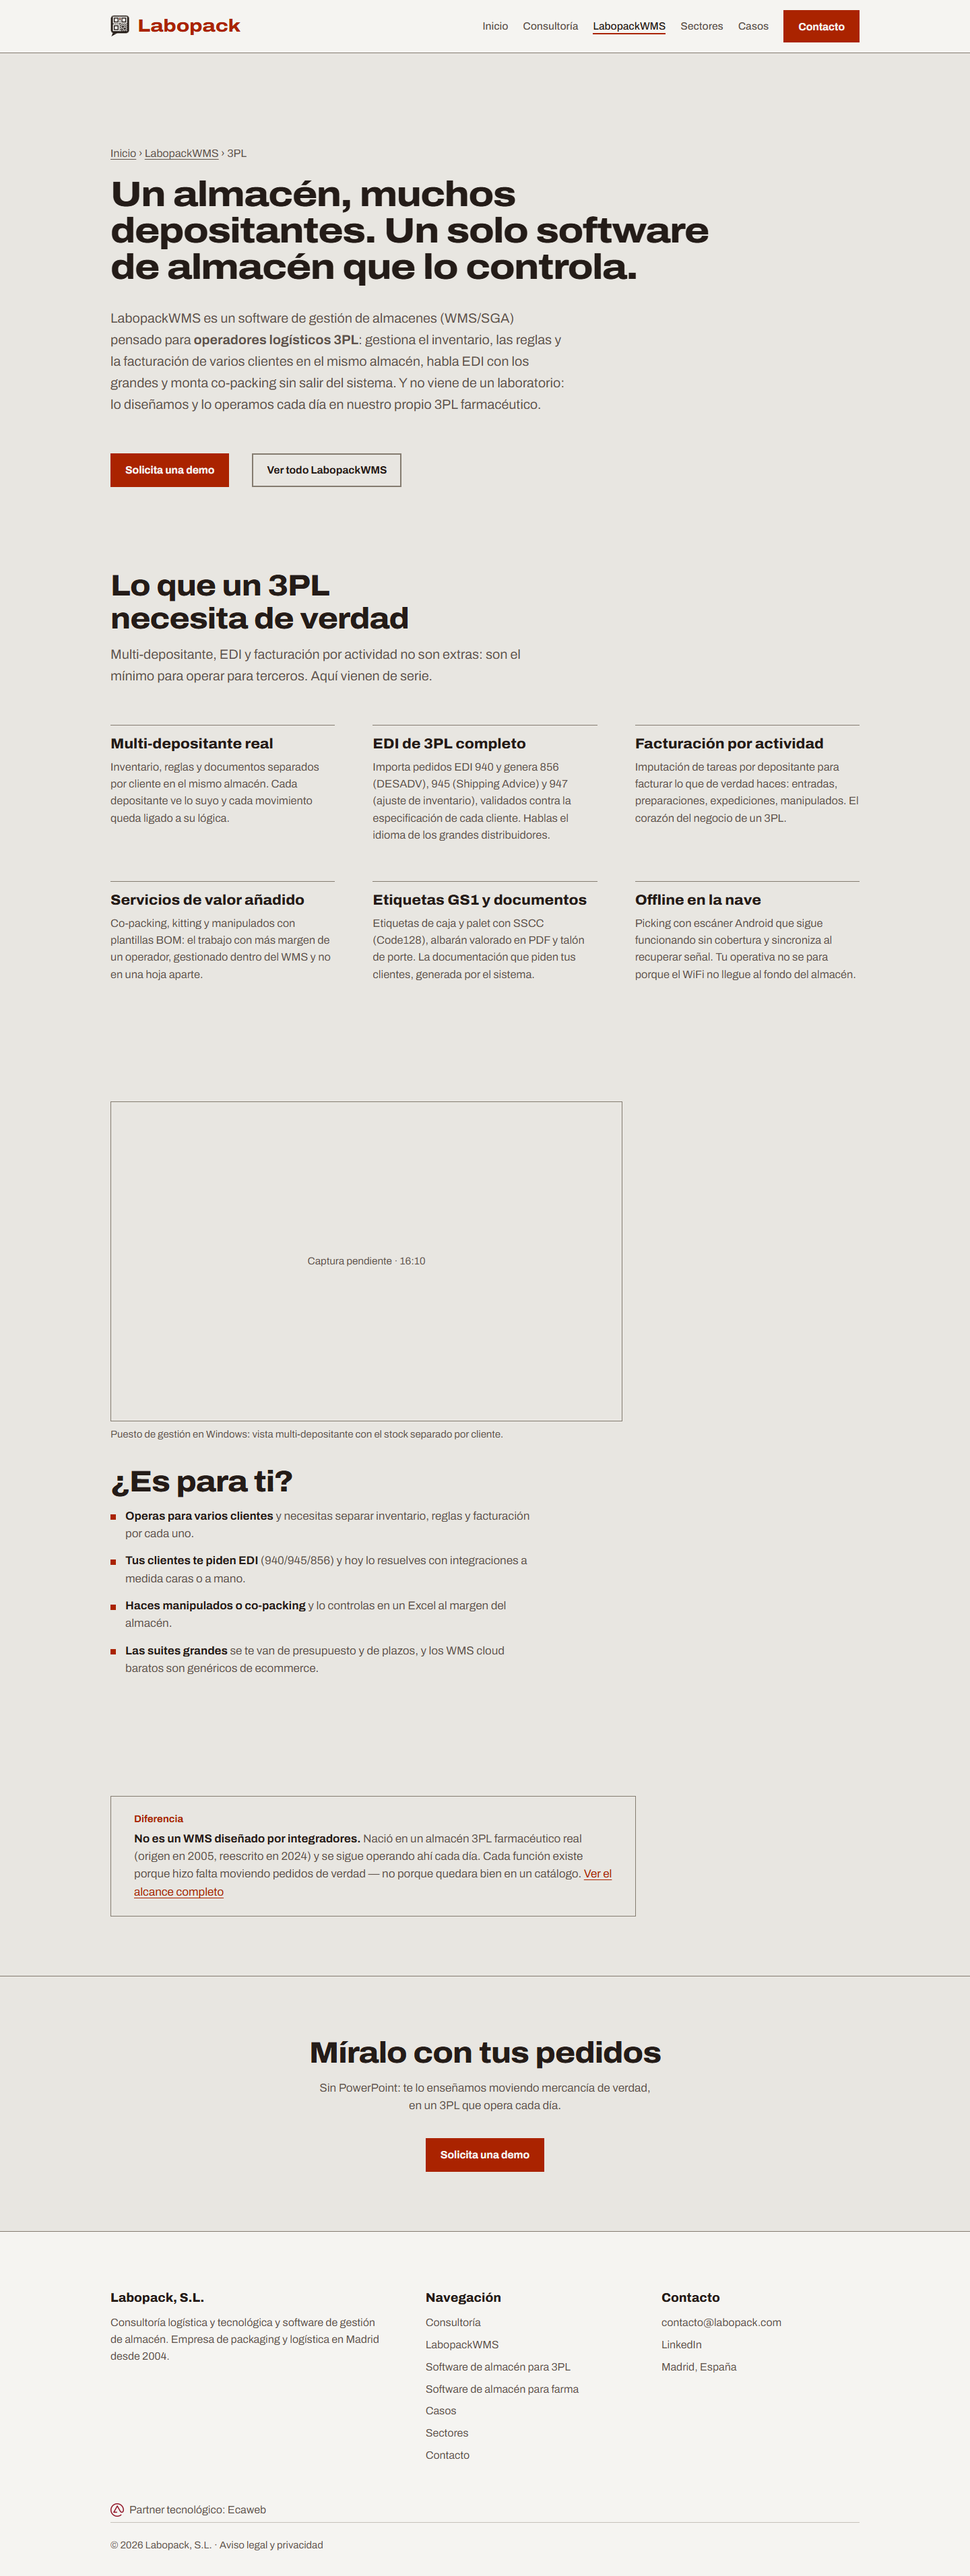
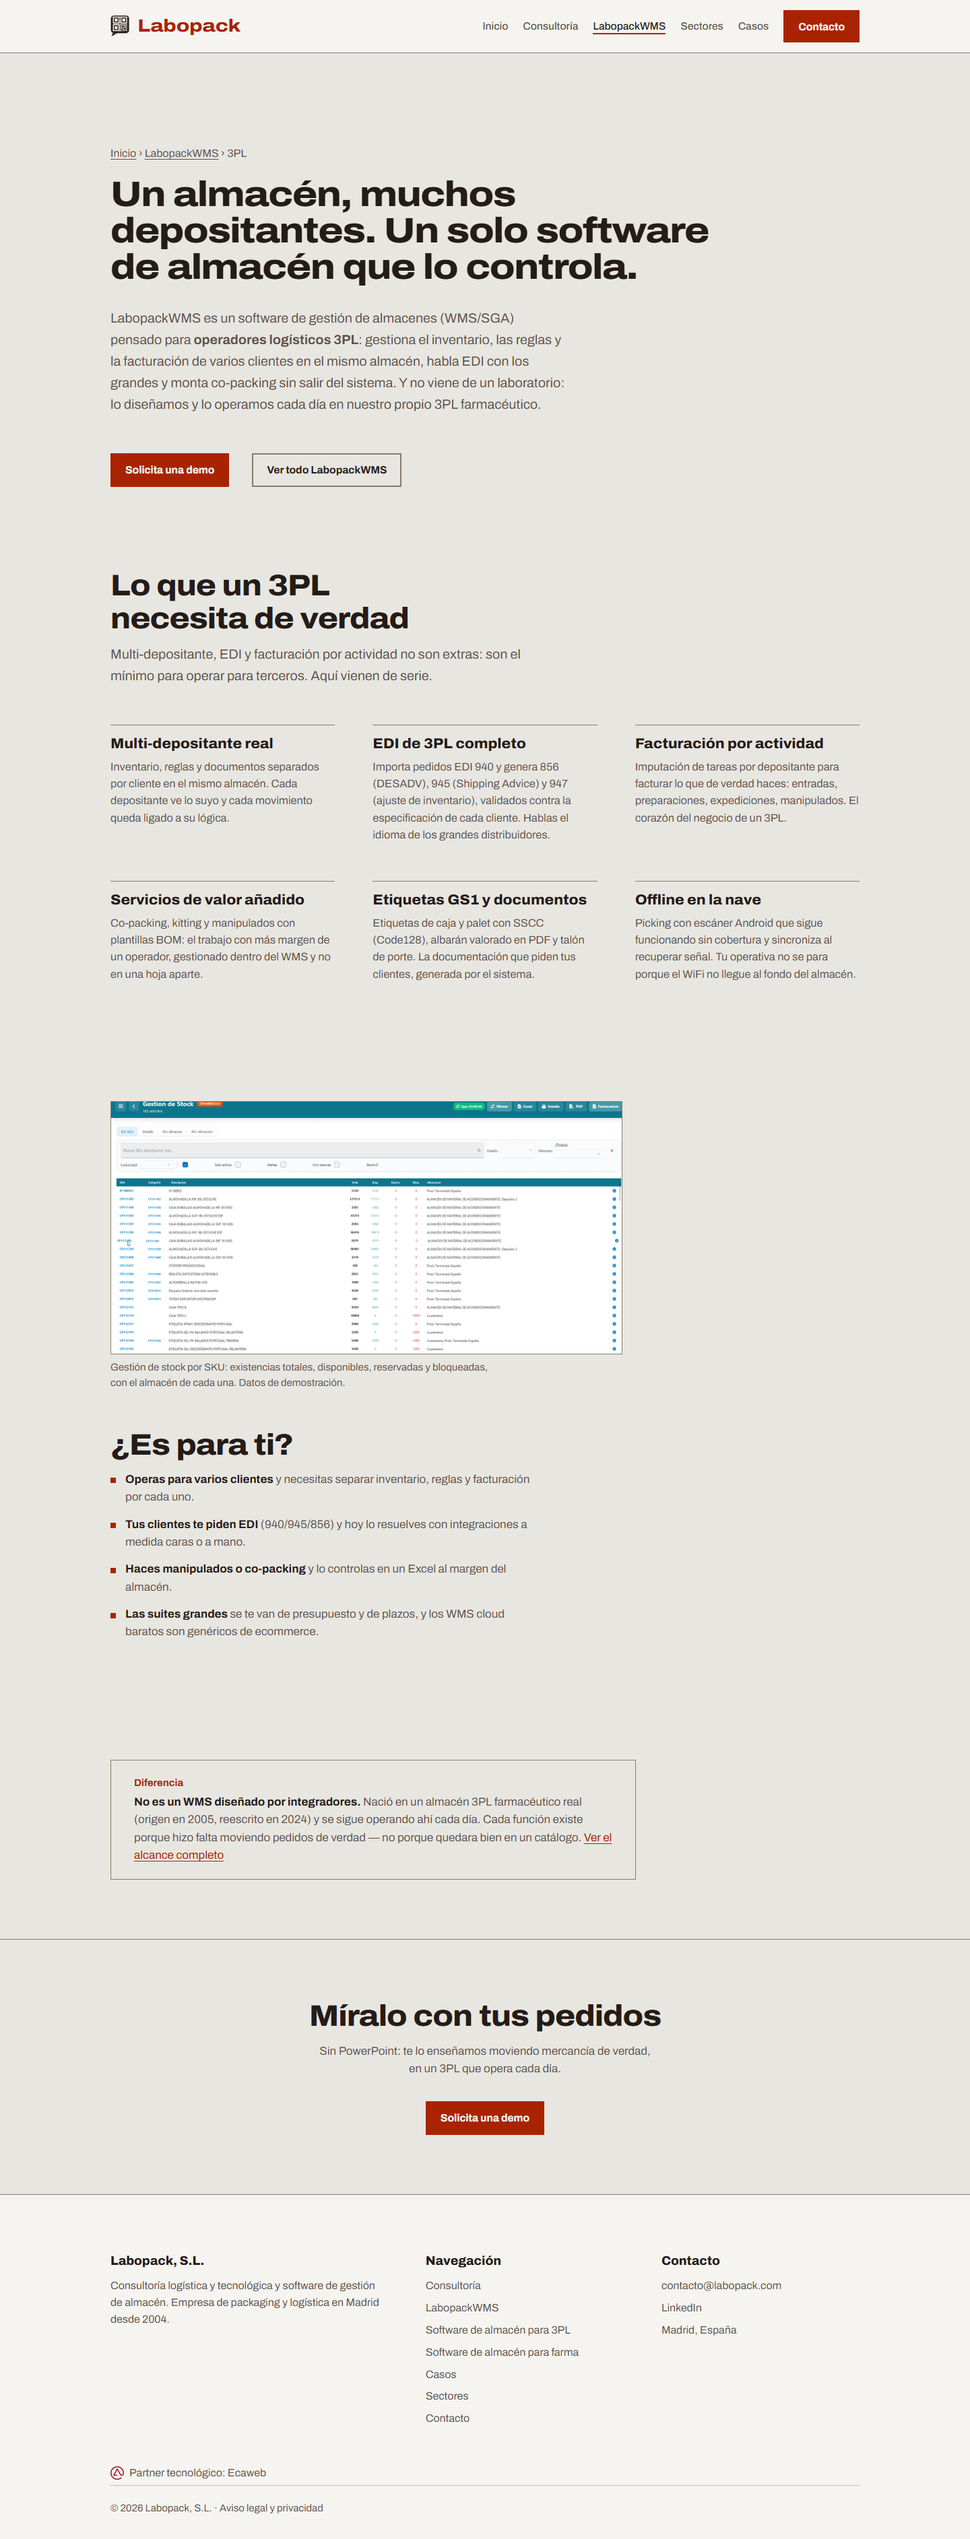
Capturas de LabopackWMS, saneadas para un repositorio publico
Cuatro capturas sustituyen a los cuatro huecos marcados. Las paginas de
producto ya ensenan producto.

- /wms/: importacion de EDI 940 con la verificacion de stock, y el menu de la
  app Android.
- /wms/3pl/: gestion de stock por SKU con total, disponible, reservado y
  bloqueado.
- /wms/farma/: stock por lote con caducidad y estado (disponible, bloqueado,
  cuarentena, destruccion).

Saneado. Las originales llevaban nombres de cliente en siete sitios distintos
de una sola pantalla: lista de ficheros, cabecera del pedido, linea de
metadatos, descripcion del articulo, columna de almacenes, transportista y el
logotipo de un cliente en el pie. No se ha difuminado nada: cada dato esta
tapado y reescrito con uno inventado, en la misma fuente y al mismo tamano. Un
difuminado se ve y delata que habia algo debajo. Los codigos internos (SKU,
lote, orden) se quedan: no identifican a nadie fuera de la empresa. Fuera
tambien el cromo de la ventana, la barra flotante de captura y el puntero.

Publicadas en WebP a 1520px, el doble del ancho de presentacion: entre 21 y
70 KB cada una. Las paginas quedan en 204-217 KB de los 400 de tope.

Comprobado: ni un termino identificable queda en los ficheros de texto del
repositorio, y Lighthouse movil da 100 en las cuatro categorias en las tres
paginas con capturas.

El procedimiento de saneado queda escrito en la skill, porque la siguiente
tanda de capturas tiene que pasar por lo mismo.
[…]

diff --git a/wms/index.html b/wms/index.html
@@ -122,9 +122,10 @@
         <span class="step">Transporte</span>
       </div>
 
-      <figure class="hueco windows">
-        <div class="marco">Captura pendiente · 16:10</div>
-        <figcaption>Puesto de gestión en Windows: importación de un pedido EDI 940 con la vista previa de validación.</figcaption>
+      <figure class="captura ancha">
+        <img src="/assets/capturas/wms-edi-940.webp" alt="Pantalla de importación de EDI 940: lista de ficheros pendientes y, a la derecha, el detalle de un pedido con la verificación de stock de cada línea."
+             width="1520" height="499" loading="lazy" decoding="async">
+        <figcaption>Importación de un pedido EDI 940 en el puesto de gestión: validación de estructura y verificación de stock antes de importar. Datos de demostración.</figcaption>
       </figure>
 
       <!-- Grupo 1: Recepción y EDI -->
@@ -187,9 +188,10 @@
         </div>
       </div>
 
-      <figure class="hueco android">
-        <div class="marco">Captura pendiente · 9:16</div>
-        <figcaption>App Android: picking con escáner de códigos de barras por cámara, en modo offline.</figcaption>
+      <figure class="captura movil">
+        <img src="/assets/capturas/wms-android.webp" alt="Menú principal de la aplicación Android, con los accesos a fichaje, consulta de stock, pre-recepción, recepciones, expediciones y fabricación."
+             width="372" height="846" loading="lazy" decoding="async">
+        <figcaption>App Android: el menú de operativa de almacén. Abajo, el indicador de conexión. Datos de demostración.</figcaption>
       </figure>
 
       <!-- Grupo 4: Preparación -->

diff --git a/assets/styles.css b/assets/styles.css
@@ -504,32 +504,27 @@ section.cifras { padding-top: 0; }
 
 .columna-legal { max-width: 72ch; }
 
-/* ---------- Huecos de captura pendiente ----------
-   Provisional. Marcan dónde va cada captura de LabopackWMS y a qué proporción,
-   para que la maquetación quede cerrada y meter la imagen sea sustituir el
-   <figure> por un <img>. No deben llegar a producción con texto dentro.
+/* ---------- Capturas de LabopackWMS ----------
+   Único material gráfico de la web. Sin sombra, sin redondeo y sin mockup: un
+   borde de 1px las separa del fondo y nada más.
    ------------------------------------------------------------------------- */
 
-.hueco {
-  margin: 0 0 var(--e5);
+.captura {
+  margin: 0 0 var(--e6);
   max-width: 760px;
 }
-.hueco .marco {
-  display: flex;
-  align-items: center;
-  justify-content: center;
+.captura img {
+  display: block;
+  width: 100%;
+  height: auto;
   border: 1px solid var(--linea-fuerte);
-  color: var(--grafito);
-  font-size: 0.9rem;
-  text-align: center;
-  padding: var(--e4);
 }
-.hueco.windows .marco { aspect-ratio: 16 / 10; }
-.hueco.android .marco { aspect-ratio: 9 / 16; max-width: 300px; margin: 0 auto; }
-.hueco figcaption {
+.captura.movil { max-width: 320px; }
+.captura figcaption {
   margin-top: var(--e2);
   color: var(--grafito);
   font-size: 0.88rem;
+  max-width: var(--medida);
 }
 
 /* ---------- Páginas de artículo (la guía de EDI) ---------- */

diff --git a/wms/3pl/index.html b/wms/3pl/index.html
@@ -118,9 +118,10 @@
 
   <section>
     <div class="container">
-      <figure class="hueco windows">
-        <div class="marco">Captura pendiente · 16:10</div>
-        <figcaption>Puesto de gestión en Windows: vista multi-depositante con el stock separado por cliente.</figcaption>
+      <figure class="captura ancha">
+        <img src="/assets/capturas/wms-stock-3pl.webp" alt="Tabla de gestión de stock por SKU con las columnas de total, disponible, reservado, bloqueado y los almacenes donde está cada artículo."
+             width="1520" height="750" loading="lazy" decoding="async">
+        <figcaption>Gestión de stock por SKU: existencias totales, disponibles, reservadas y bloqueadas, con el almacén de cada una. Datos de demostración.</figcaption>
       </figure>
 
       <h2 class="section-title">¿Es para ti?</h2>

diff --git a/wms/farma/index.html b/wms/farma/index.html
@@ -118,9 +118,10 @@
 
   <section>
     <div class="container">
-      <figure class="hueco windows">
-        <div class="marco">Captura pendiente · 16:10</div>
-        <figcaption>Puesto de gestión en Windows: control de lotes y caducidades con asignación FEFO.</figcaption>
+      <figure class="captura ancha">
+        <img src="/assets/capturas/wms-lotes-farma.webp" alt="Tabla de stock en detalle con una fila por lote, mostrando número de lote, fecha de caducidad, cantidad, almacén y estado."
+             width="1520" height="742" loading="lazy" decoding="async">
+        <figcaption>Stock por lote con su caducidad y su estado: disponible, bloqueado, en cuarentena o en destrucción. Datos de demostración.</figcaption>
       </figure>
 
       <h2 class="section-title">¿Es para ti?</h2>

diff --git a/.claude/skills/labopack-design/SKILL.md b/.claude/skills/labopack-design/SKILL.md
@@ -161,15 +161,28 @@ Son el único activo visual, y solo tienen sitio donde ilustran producto: `/wms/
   entera reducida hasta ser ilegible no sirve de nada.
 - Sin mockups de portátil ni de móvil con reflejos. El marco, si hace falta, es un borde
   de 1px en `--linea-fuerte`.
-- Proporción: **16:10** las de Windows, **9:16** las de Android. `loading="lazy"` y
-  `width`/`height` explícitos salvo en la primera visible de la página.
-- **Mientras no lleguen**, el hueco se marca con un `<figure class="hueco">`: recuadro de
-  1px en `--linea-fuerte` a su proporción y una línea en `--grafito` diciendo qué captura
-  va ahí. Ni relleno gris, ni degradado, ni sustituto de ningún tipo.
-- Los huecos son **andamio provisional y no pueden fusionarse a `master`**: llevan texto
-  visible («Captura pendiente») que el sitio publicado no debe mostrar. O se sustituyen
-  por la captura, o se retiran antes de fusionar. Hoy hay cuatro: dos en `/wms/` y uno en
-  cada una de `/wms/3pl/` y `/wms/farma/`.
+- Van en `<figure class="captura">` con su `<figcaption>`. La variante `.movil` para las
+  de Android. `loading="lazy"`, `decoding="async"` y `width`/`height` explícitos siempre.
+- Formato **WebP**, calidad 86, a **1520 px de ancho**: el doble del ancho máximo de
+  presentación (760 px), que es lo que pide una pantalla de alta densidad. Más allá de
+  eso solo se gastan kilobytes. Las de móvil van a su tamaño nativo.
+- Hoy hay cuatro, en `assets/capturas/`: dos en `/wms/`, una en `/wms/3pl/` y una en
+  `/wms/farma/`.
+
+### Saneado obligatorio antes de publicar una captura
+
+El repositorio es público y lo publicado no se puede retirar. **Ninguna captura se sube
+sin pasar por esto.**
+
+- Fuera **todo** nombre de cliente, depositante, transportista, marca de producto y
+  logotipo ajeno. Repasar columnas, barras de título, pies de página y ventanas de fondo:
+  en la primera tanda había nombres en siete sitios distintos de la misma pantalla.
+- **No se difumina: se tapa y se reescribe** con un dato inventado, en la misma fuente y
+  al mismo tamaño. Un difuminado se ve y delata que había algo debajo.
+- Los códigos internos (SKU, lote, número de orden) pueden quedarse: no identifican a
+  nadie fuera de la empresa.
+- Fuera el cromo de la ventana, la barra flotante de captura y el puntero del ratón.
+- Cada `figcaption` termina en **«Datos de demostración.»**, porque lo son.
 
 ### Iconos
 
